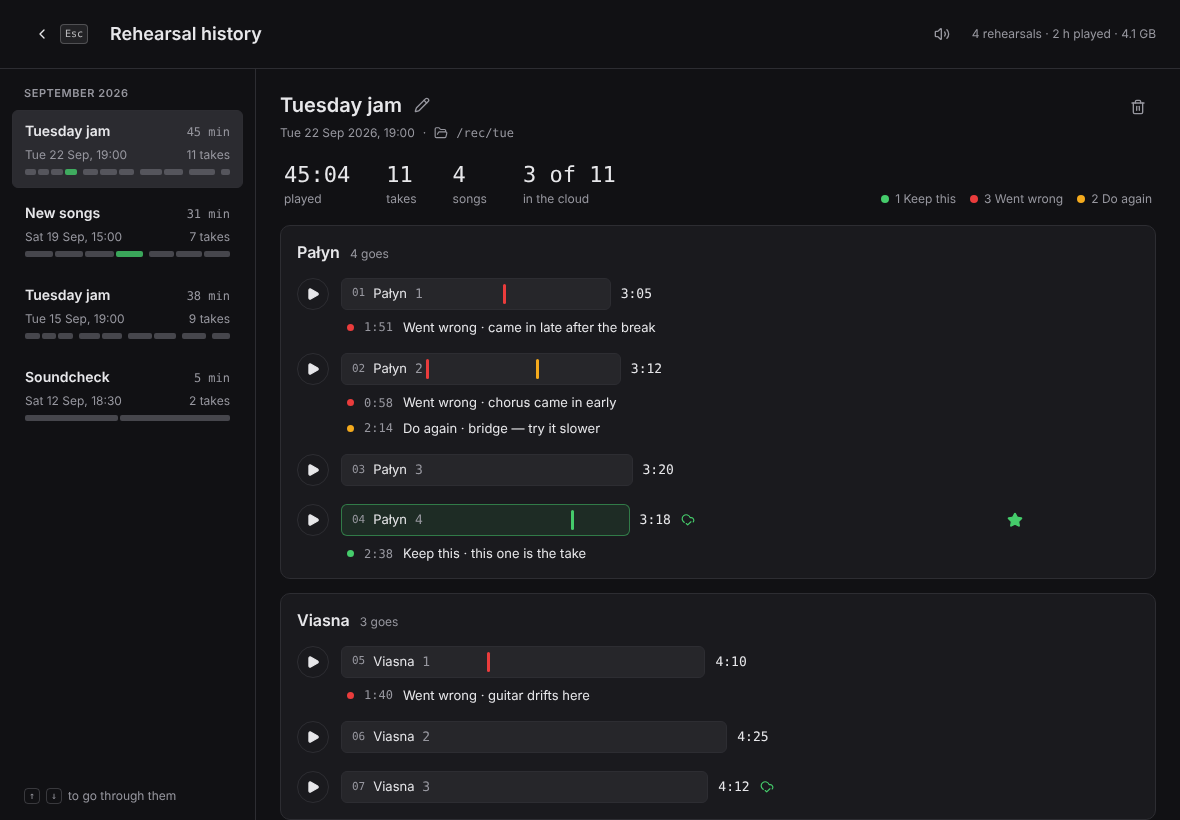
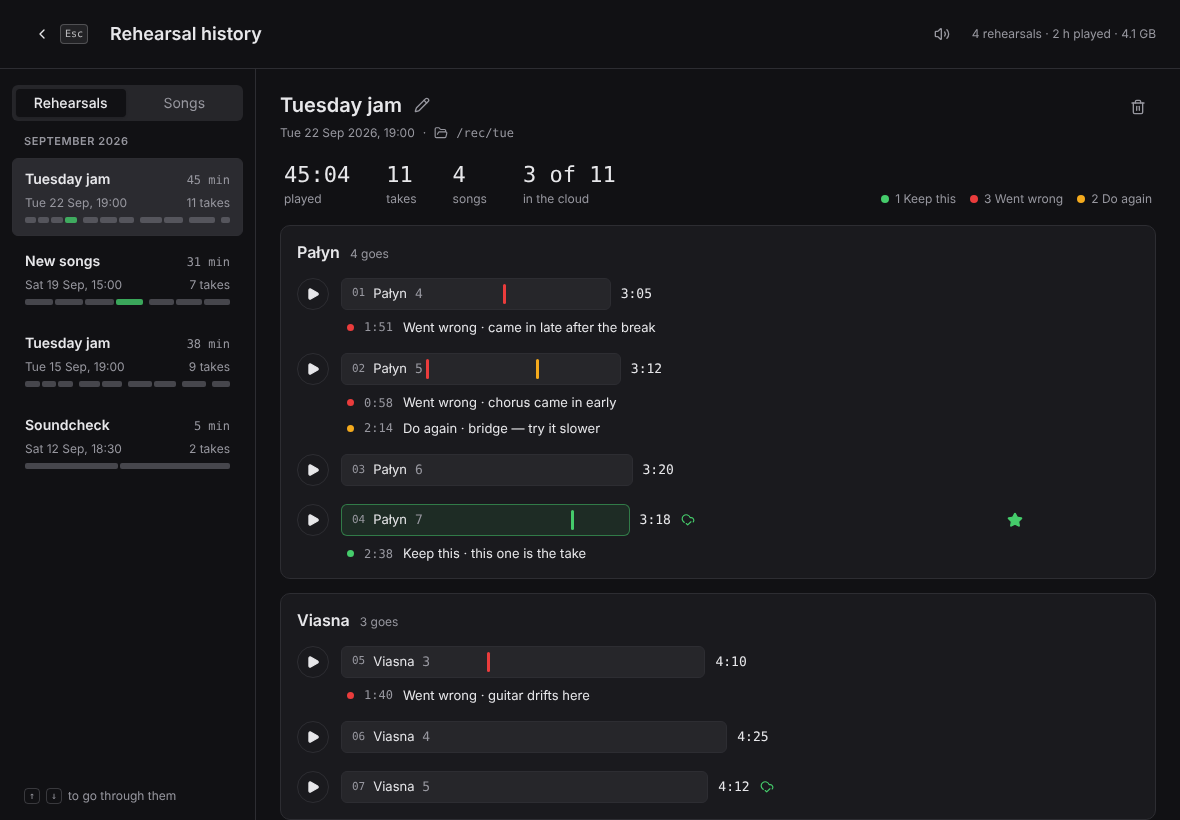
Docs: History's two views and a song's page
Claude-Session: https://claude.ai/code/session_01DdZwGPxCQwCPmJWRSwrAhN

Changed region(s): [[0.0, 0.0915, 0.2136, 0.5793]]

diff --git a/tests/docs_screenshots.py b/tests/docs_screenshots.py
@@ -76,7 +76,7 @@ DRAFTS = """window.__DRAFTS__ = [{dir:'/rec/tue/_drafts/take 5', name:'take 5',
 # so a picture is not half empty.
 HEIGHT = {"unsaved-takes": 420, "setup": 910, "settings": 760, "marks": 420, "rehearsal": 770,
           "recording": 720, "review": 1040, "player": 1040, "zoom": 1040,
-          "history": 820}
+          "history": 820, "history-songs": 940}
 
 
 def shoot(page, name):
@@ -196,6 +196,11 @@ def main():
         page.wait_for_selector("text=New songs")
         page.wait_for_timeout(400)
         shoot(page, "history")
+        page.get_by_role("button", name="Songs", exact=True).click()
+        page.click('[data-song="Pałyn"]')
+        page.wait_for_selector('[data-rung][aria-expanded="true"]')
+        page.wait_for_timeout(400)
+        shoot(page, "history-songs")
         page.close()
 
         browser.close()

diff --git a/docs/using-it.md b/docs/using-it.md
@@ -289,6 +289,11 @@ Typing narrows the list to the songs that match, and clicking one then takes
 you out of the field, so the next Space records or saves. In the Rename take
 dialog you stay in the field, and Enter renames.
 
+Elsewhere a song's title opens the song's page in History: in Last time on
+the setup screen, and as a song's heading in a rehearsal's overview. **Not
+named** opens the page of the takes nobody named. The songs listed under a
+name field are the exception: they only fill the field.
+
 To rename a take or a rehearsal later, use the pencil button on the rehearsal
 screen or in History. The folder on disk is renamed too, and a rehearsal
 folder keeps its date: `Tuesday jam - 2026-09-18 19-00`. If you rename a take
@@ -298,8 +303,12 @@ that is open in the player, it starts again from the beginning.
 
 ![Past rehearsals down the left, the chosen one beside them](screenshots/history.png)
 
-**History** lists your past rehearsals down the left, by month, and shows the
-chosen one beside the list. It opens on the newest. Each rehearsal in the
+**History** has two views, switched at the top of its list: **Rehearsals**,
+evening by evening, and **Songs**, song by song. It opens on the one you used
+last.
+
+**Rehearsals** lists your past rehearsals down the left, by month, and shows
+the chosen one beside the list. It opens on the newest. Each rehearsal in the
 list shows when it was, how long you played and how many takes there are,
 with the evening drawn as a strip: a bar for each take, as long as the take,
 grouped by song, and green for a starred take. You can see at a
@@ -320,6 +329,32 @@ If a rehearsal's folder was moved or renamed outside the app, or is on a
 drive that is not plugged in, the rehearsal is marked **Not found on disk**.
 **Locate folder…** lets you show the app where the folder is now.
 **Remove from history** takes it off the list without touching any files.
+
+![History's Songs view: Pałyn's goes, one line a rehearsal](screenshots/history-songs.png)
+
+**Songs** lists every song you have played, alphabetically, with how many
+goes and rehearsals it had, when it was last played and how many of its goes
+are starred. The takes nobody named come last, as **Not named**. Click a
+song, or go through them with ↑ and ↓.
+
+A song's page starts with a big **▶**, which plays its newest ★ go, or its
+last go when none is starred. Its ★ goes come next, then the marks left on it
+the last time it was played; a mark opens its take at that spot. Then every
+go at the song, one line a rehearsal, newest first: the rehearsal's day and
+name, and its goes as bars side by side, all drawn to the song's longest go.
+A go that ran long or stopped short shows without reading a number; a ★ go is
+green, and a mark is a tick in its label's colour.
+
+Click a line to open it to its goes, and again to close it. The newest
+rehearsal is open to begin with, and the lines you open stay open while
+History is. The goes in an open line play, open in the player, take a star,
+are renamed or deleted, as they are anywhere else, and **Open … in
+Rehearsals** under them shows the whole evening. Esc from the player comes
+back to the song, scrolled where you were.
+
+A rehearsal whose folder is not on disk stays on a song's page, greyed and
+marked **not on disk**. Its goes are counted, but they cannot be played or
+opened until the drive is back.
 
 ## Sending takes to the cloud
 
@@ -469,7 +504,8 @@ While listening:
 | R | turn Repeat on or off |
 | ? | show the keys |
 
-In History, ↑ and ↓ go through the rehearsals.
+In History, ↑ and ↓ go through the rehearsals, or the songs in the Songs
+view.
 
 Esc goes one step back. It closes a dialog first, then the open take, then a
 take playing in the list of takes, then the screen. On the rehearsal screen it finishes the rehearsal, and asks first

diff --git a/CHANGELOG.md b/CHANGELOG.md
@@ -5,6 +5,16 @@ versioning](https://semver.org/): until 1.0 the shape of things can still
 move, though recordings on disk are never left behind — old rehearsals keep
 opening.
 
+## Unreleased
+
+- **Every song has a page.** History has two views, *Rehearsals* and
+  *Songs*, and opens on the one used last. A song's page has every go at
+  it, from every rehearsal, one line an evening with its goes drawn to
+  scale; a click opens an evening's goes to play, open, star, rename or
+  delete. Its ★ goes come first, and the marks from the last time it was
+  played under them. A song's title on the setup screen, or in a
+  rehearsal's overview, opens its page.
+
 ## 0.10.0
 
 - **The app is called РЭХА now.** РЭХА is Belarusian for “echo”, and it
